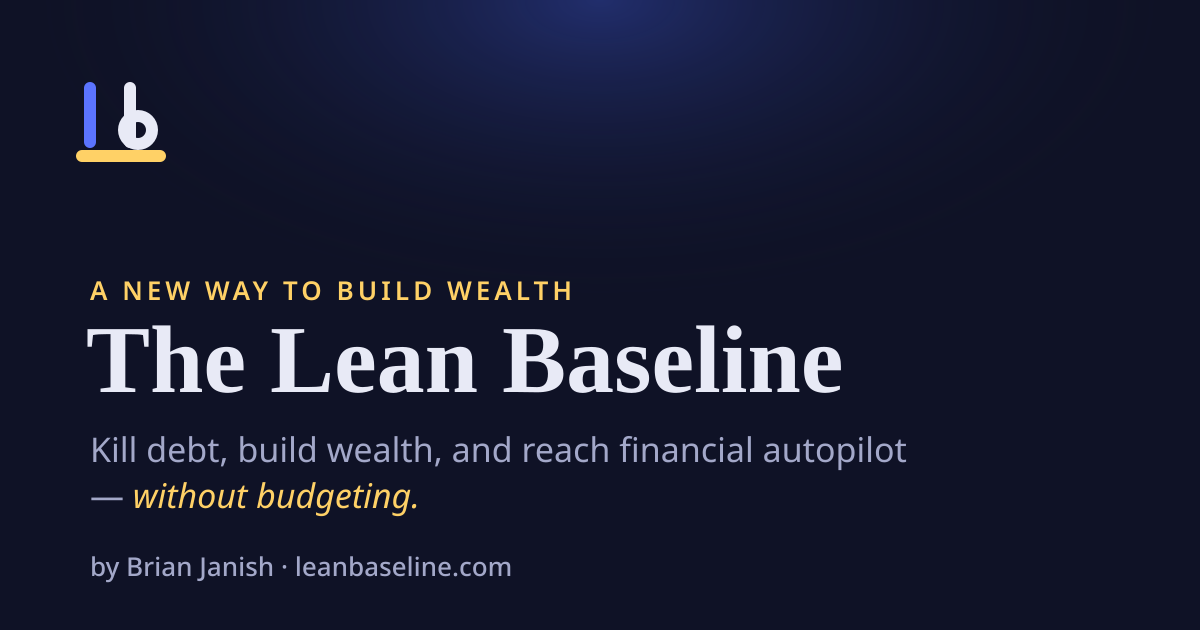
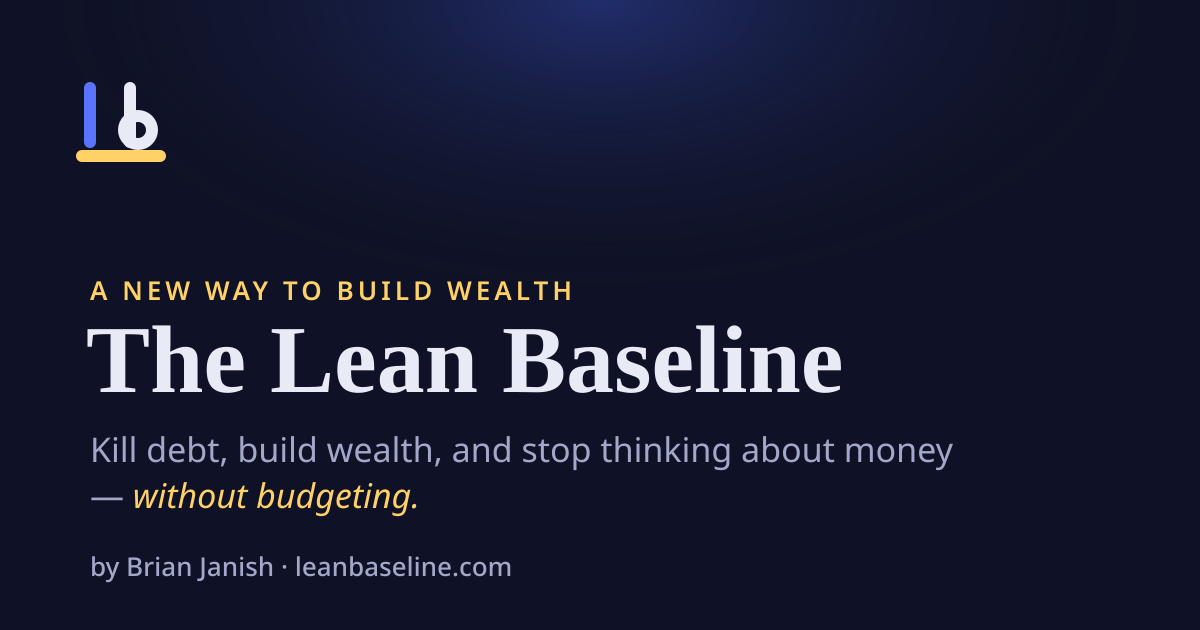
Replace 'autopilot' with 'stop thinking about money' across page and share image

Changed region(s): [[0.4317, 0.6937, 0.8017, 0.754]]

diff --git a/index.html b/index.html
@@ -6,7 +6,7 @@
   <title>The Lean Baseline — by Brian Janish</title>
   <meta
     name="description"
-    content="The Lean Baseline by Brian Janish. Kill debt, build wealth, and reach financial autopilot without budgeting — by building a cash surplus into every two weeks."
+    content="The Lean Baseline by Brian Janish. Kill debt, build wealth, and stop thinking about money without budgeting — by building a cash surplus into every two weeks."
   />
 
   <!-- Open Graph (Facebook, LinkedIn, iMessage, Slack, etc.) -->
@@ -15,20 +15,20 @@
   <meta property="og:title" content="The Lean Baseline" />
   <meta
     property="og:description"
-    content="Kill debt, build wealth, and reach financial autopilot without budgeting — by building a cash surplus into every two weeks."
+    content="Kill debt, build wealth, and stop thinking about money without budgeting — by building a cash surplus into every two weeks."
   />
   <meta property="og:url" content="https://leanbaseline.com/" />
   <meta property="og:image" content="https://leanbaseline.com/og-image.png" />
   <meta property="og:image:width" content="1200" />
   <meta property="og:image:height" content="630" />
-  <meta property="og:image:alt" content="The Lean Baseline — kill debt, build wealth, and reach financial autopilot without budgeting." />
+  <meta property="og:image:alt" content="The Lean Baseline — kill debt, build wealth, and stop thinking about money without budgeting." />
 
   <!-- Twitter / X -->
   <meta name="twitter:card" content="summary_large_image" />
   <meta name="twitter:title" content="The Lean Baseline" />
   <meta
     name="twitter:description"
-    content="Kill debt, build wealth, and reach financial autopilot without budgeting — by building a cash surplus into every two weeks."
+    content="Kill debt, build wealth, and stop thinking about money without budgeting — by building a cash surplus into every two weeks."
   />
   <meta name="twitter:image" content="https://leanbaseline.com/og-image.png" />
 
@@ -51,7 +51,7 @@
       <p class="eyebrow">A new method for building wealth</p>
       <h1 class="hero__title">The Lean Baseline</h1>
       <p class="hero__subtitle">
-        How to kill debt, build wealth, and reach financial autopilot
+        How to kill debt, build wealth, and stop thinking about money
         <em>without budgeting.</em>
       </p>
       <p class="hero__byline">by Brian Janish</p>
@@ -286,7 +286,7 @@
             </p>
           </article>
           <article class="card">
-            <h3 class="card__title">Investing on autopilot</h3>
+            <h3 class="card__title">Investing without thinking about it</h3>
             <p>
               Send some of it into low-cost index funds, every two weeks, no matter
               what the market's doing. When it's up you're growing; when it's down
@@ -305,8 +305,8 @@
       </div>
     </section>
 
-    <!-- Autopilot / payoff -->
-    <section class="section section--alt" id="autopilot">
+    <!-- The payoff -->
+    <section class="section section--alt" id="payoff">
       <div class="container">
         <h2 class="section__title">After a while, you stop thinking about it</h2>
         <div class="prose">
@@ -430,7 +430,7 @@
 
       var shareData = {
         title: "The Lean Baseline",
-        text: "How to kill debt, build wealth, and reach financial autopilot without budgeting.",
+        text: "How to kill debt, build wealth, and stop thinking about money without budgeting.",
         url: window.location.href,
       };
 
